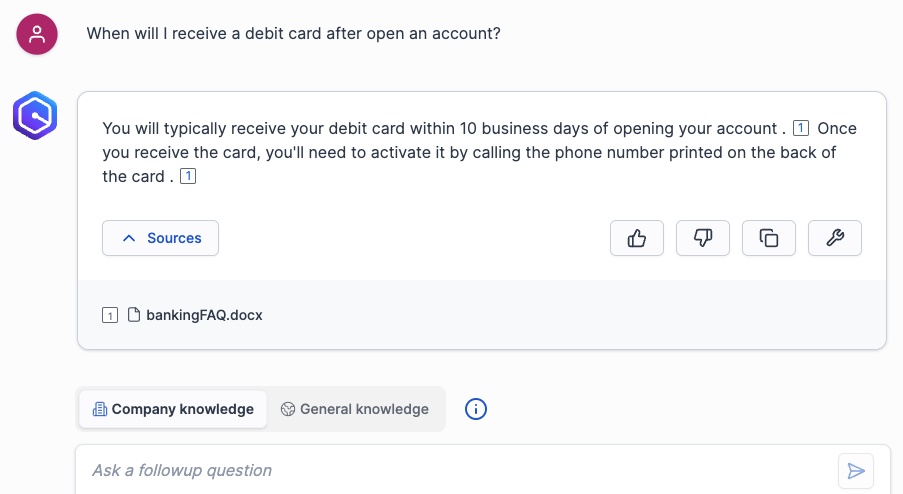
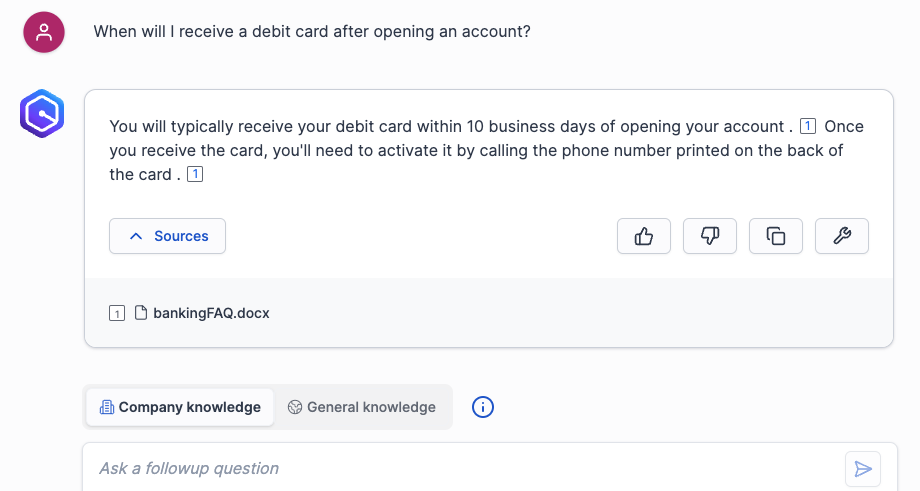
Add chat

diff --git a/chat/README.md b/chat/README.md
@@ -3,11 +3,11 @@ We will chat with Amazon Q Business application using questions relevant to data
 
 1. Go to the application details page and click on the url below **Deployed URL**.  
 ![chat-1](./img/chat-1.png)
-You will be asked to sign in using the username that we created [in the IDC setup](../q-app/README.md#iam-identity-center-setup).  After sign-in, The application is shown as below.  
+You will be asked to sign in using the username, *doit*, that we reset its password [in the IDC setup](../q-app/README.md#iam-identity-center-setup).  After sign-in, The application is shown as below.  
 ![chat-2](./img/chat-2.png)  
 
 2. As you can see tabs above the chat textbox. There are Company knowledge and General knowledge. If Company Knowledge is selected, the application retrieves information from the configured knowledge bases to respond to the user. In contrast, when General Knowledge is chosen, the application relies on model knowledge derived from trained data to interact with the user.  
-To understand better, please check the below examples using this question `When was Amazon Q Business released`.   
+To understand better, please check the below examples using this question `When was Amazon Q Business released?`.   
 
 Ask using Company Knowledge.  
 ![chat-3](./img/chat-3.png)  
@@ -19,7 +19,7 @@ Ask a question `How many fully managed Retrieval Augmented Generation (RAG) opti
 ![chat-5](./img/chat-5.png)  
 As you can see the source the application uses to answer us from the Web crawler data source.  
 
-Next, ask this question `When will I receive a debit card after open an account?`.  
+Next, ask this question `When will I receive a debit card after opening an account?`.  
 ![chat-6](./img/chat-6.png)  
 The application uses the source from the Uploaded file data source.  
 
@@ -33,4 +33,5 @@ Use the query `Your task is to create a reminder email template for guests who h
 ![chat-8](./img/chat-8.png)  
 As you can see, the email template is generated with Wednesday's lunch special menu.
 
-Since users can ask any information from Q Business, this may introduce risks or lead to unintended usage. [The next part](../ctrl/README.md), we are going to control the input using Admin controls and guardrails.
+Since users can ask any information from Q Business, this may introduce risks or lead to unintended usage.  
+[In the next part](../ctrl/README.md), we will manage user input using admin controls and guardrails.
